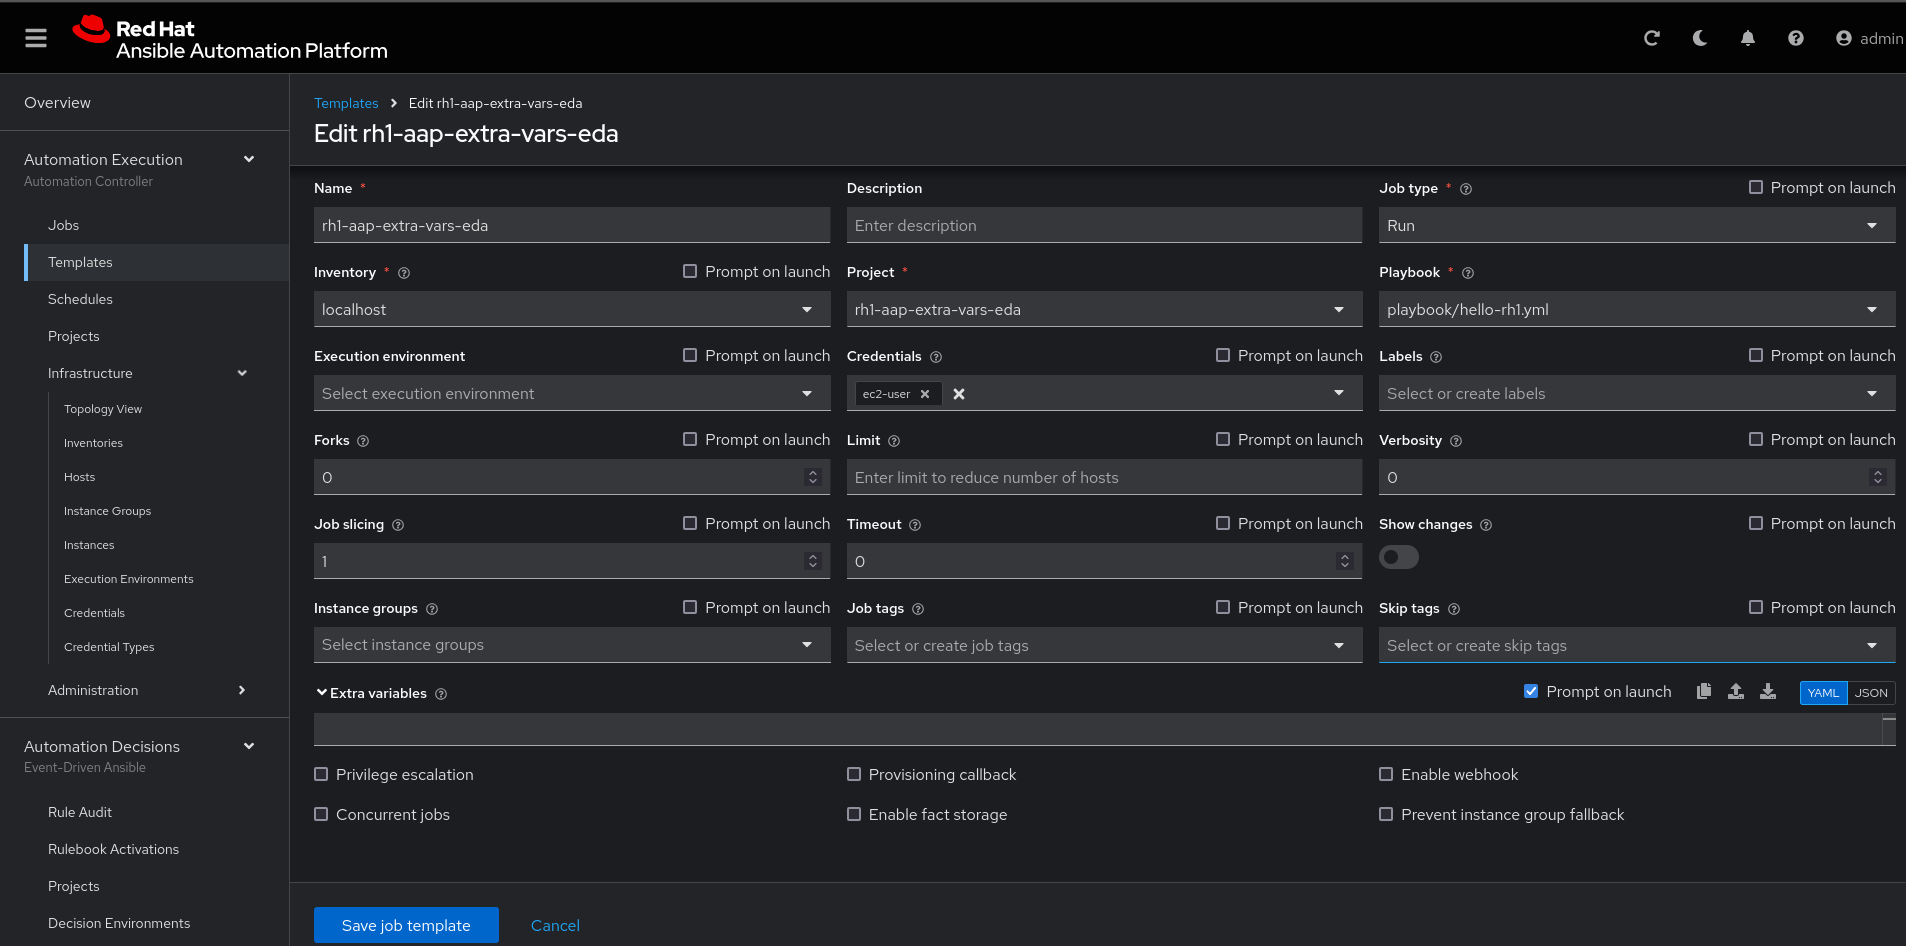
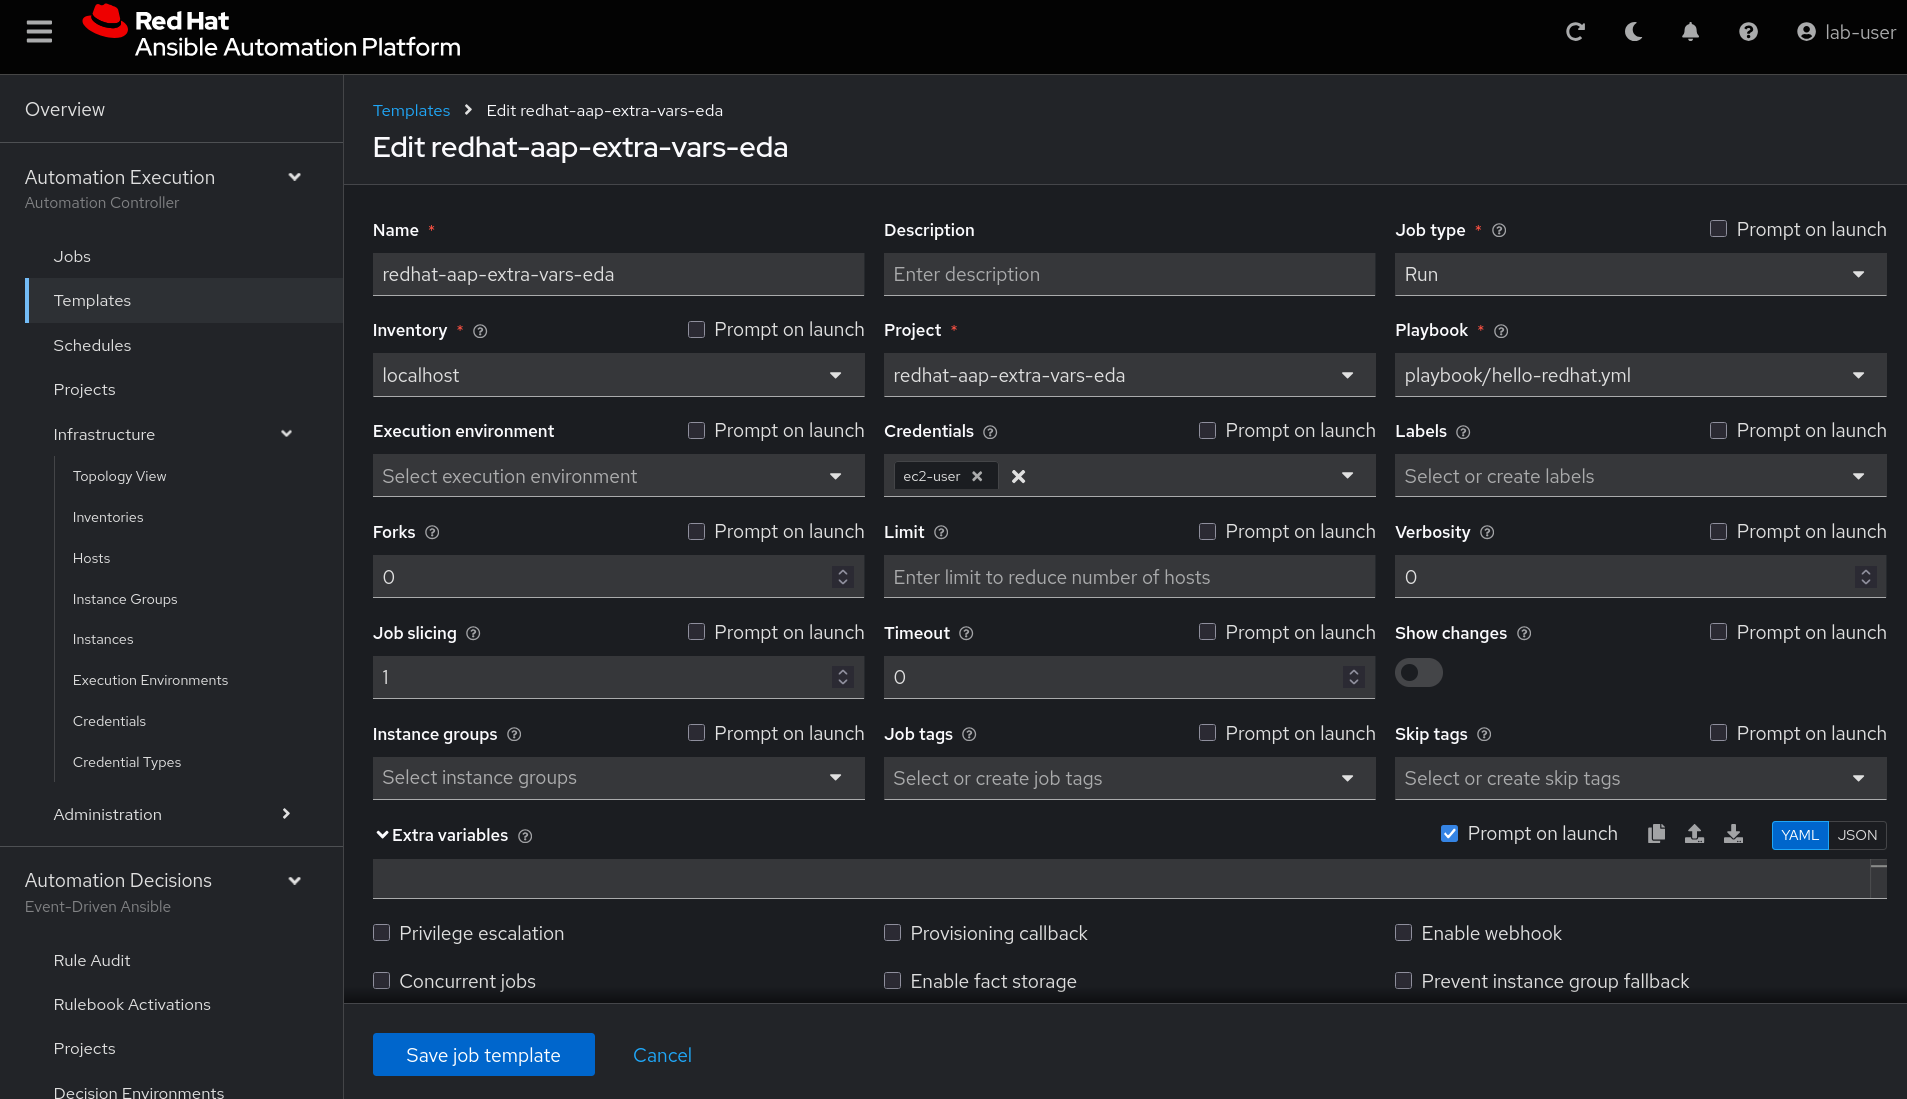
deploy: 69232c8ef250b624691ec832fdce676994390ccb

diff --git a/troubleshooting-eda/1/chapter1/section3.html b/troubleshooting-eda/1/chapter1/section3.html
@@ -165,7 +165,7 @@ drwx------. 10 ec2-user ec2-user 4.0K Nov 26 14:05 ..
 <div class="ulist">
 <ul>
 <li>
-<p>Copy the contents of the public key and add it to this link. To do this you will need to hold the kbd:[Shift] key, and then highlight the key and right click to copy.</p>
+<p>Copy the contents of the public key and add it to this link. To do this you will need to hold the <strong>Shift</strong> key, and then highlight the key and right click to copy.</p>
 </li>
 </ul>
 </div>
@@ -177,7 +177,7 @@ drwx------. 10 ec2-user ec2-user 4.0K Nov 26 14:05 ..
 <div class="ulist">
 <ul>
 <li>
-<p>Go to User Settings / Preferences / SSH keys</p>
+<p>Go to User Settings -&#8594; Preferences -&#8594; SSH keys</p>
 </li>
 </ul>
 </div>
@@ -276,7 +276,7 @@ git push</code></pre>
 <p>Login to Ansible Auotomaton Platform using the information provided on the RHDP page.</p>
 </li>
 <li>
-<p>Create the inventory. Select menu:Automation Execution[Infrastructure &gt; Inventories].</p>
+<p>Create the inventory. Select menu -&#8594; Automation Execution -&#8594; Infrastructure -&#8594; Inventories.</p>
 </li>
 <li>
 <p>To create the inventory, click on <strong>Create inventory</strong> in blue.</p>
@@ -306,7 +306,7 @@ Organization: Default</code></pre>
 <div class="olist loweralpha">
 <ol class="loweralpha" type="a">
 <li>
-<p>To add a host to the inventory, click the on [Hosts] tab.</p>
+<p>To add a host to the inventory, click the on <strong>Hosts</strong> tab.</p>
 <div class="imageblock">
 <div class="content">
 <a class="image" href="_images/lab003-003.jpg" target="_blank" rel="noopener"><img src="_images/lab003-003.jpg" alt="lab003-003" width="100%" height="100%"></a>
@@ -447,9 +447,6 @@ check box:
 <div class="paragraph">
 <p>Once the project finishes syncing, create the <strong>job_template</strong> in Ansible Automation Platform with the project name <em>redhat-aap-extra-vars-eda</em>:</p>
 </div>
-<div class="paragraph">
-<p>+</p>
-</div>
 <div class="listingblock">
 <div class="content">
 <pre class="highlightjs highlight"><code class="language-bash hljs" data-lang="bash">Name: redhat-aap-extra-vars-eda
@@ -472,7 +469,7 @@ Credentials: ec2-user</code></pre>
 <div class="ulist">
 <ul>
 <li>
-<p>To create the credential, select menu:Automation Decisions[Infrastructure &gt; Credentials &gt; Create credential]:</p>
+<p>To create the credential, select menu -&#8594; Automation Decisions -&#8594; Infrastructure -&#8594; Credentials -&#8594; Create credential :</p>
 <div class="imageblock">
 <div class="content">
 <a class="image" href="_images/lab003-017.jpg" target="_blank" rel="noopener"><img src="_images/lab003-017.jpg" alt="lab003-017" width="100%" height="100%"></a>
@@ -501,7 +498,7 @@ Password: redhat..123</code></pre>
 <div class="olist loweralpha">
 <ol class="loweralpha" type="a">
 <li>
-<p>Select `Automation Decisions &gt; Projects and Click on <strong>Create project</strong>:</p>
+<p>Select `Automation Decisions -&#8594; Projects and Click on <strong>Create project</strong>:</p>
 <div class="imageblock">
 <div class="content">
 <a class="image" href="_images/lab003-021.jpg" target="_blank" rel="noopener"><img src="_images/lab003-021.jpg" alt="lab003-021" width="100%" height="100%"></a>
@@ -677,7 +674,7 @@ The Rulebook will not be able to be located. You need to resolve this issue.
 </table>
 </div>
 <div class="paragraph">
-<p>Under Automation Decisions &gt; Rulebook Activations, click on [Create rulebook activation]:</p>
+<p>Under Automation Decisions -&#8594; Rulebook Activations click on -&#8594; Create rulebook activation:</p>
 </div>
 <div class="listingblock">
 <div class="content">
@@ -702,7 +699,7 @@ Decision environment: Default Decision Environment</code></pre>
 <div class="ulist">
 <ul>
 <li>
-<p>Click on [Create rulebook activation]</p>
+<p>Click on <strong>Create rulebook activation</strong></p>
 </li>
 </ul>
 </div>
@@ -729,7 +726,7 @@ Decision environment: Default Decision Environment</code></pre>
 <div class="ulist">
 <ul>
 <li>
-<p>Next go to the on [History] tab:</p>
+<p>Next go to the on <strong>History</strong> tab:</p>
 </li>
 </ul>
 </div>
